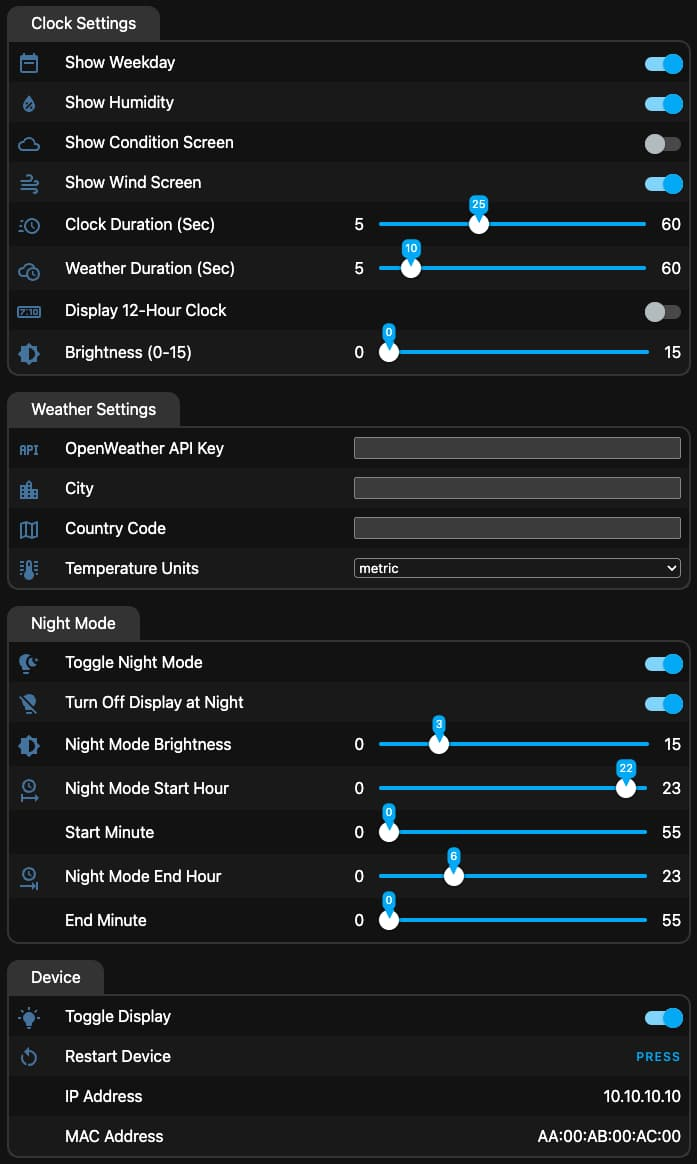
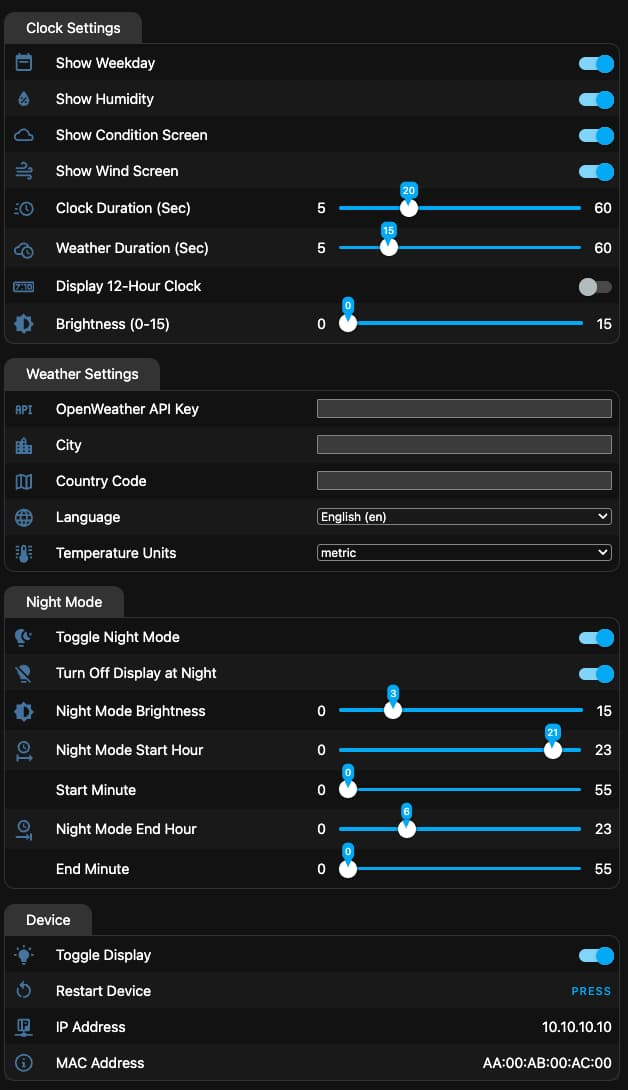
Adjusted scroll speed and updated docs

diff --git a/ESPHome/README.md b/ESPHome/README.md
@@ -31,6 +31,9 @@ You must have [ESPHome](https://esphome.io/) installed already and I will not he
   PIN_CS: "5"                             # Enter GPIO Pin for CS (DATA)
   PIN_MOSI: "23"                          # Enter GPIO Pin for MOSI
 
+  flip_display: "false"                   # Set to true to flip the display 180°
+  default_brightness: "7"                 # Enter the default brightness level of the display 0 -15
+
   ssid: !secret wifi_ssid                 # The name of the WiFi network. When using !secret that means that wifi_ssid needs to be defined in secrets.yaml
   password: !secret wifi_password         # The password for the WiFi Network
 
@@ -39,20 +42,19 @@ You must have [ESPHome](https://esphome.io/) installed already and I will not he
                                           # Find the font here: https://github.com/trip5/Matrix-Fonts/tree/main/8-series
                                           # The default font can be found in the Github Repository for this project.
 
-  default_brightness: "7"                 # Enter the default brightness level of the display 0 -15
   timezone: "Europe/Copenhagen"           # Enter your Timezone
 
   compass_N: "N"                          # Compass Direction North
-  compass_NE: "NE"                        # Compass Direction North East
-  compass_E: "E"                          # Compass Direction East
-  compass_SE: "SE"                        # Compass Direction South East
+  compass_NE: "NØ"                        # Compass Direction North East
+  compass_E: "Ø"                          # Compass Direction East
+  compass_SE: "SØ"                        # Compass Direction South East
   compass_S: "S"                          # Compass Direction South
-  compass_SW: "SW"                        # Compass Direction South West
-  compass_W: "W"                          # Compass Direction West
-  compass_NW: "NW"                        # Compass Direction North West
+  compass_SW: "SV"                        # Compass Direction South West
+  compass_W: "V"                          # Compass Direction West
+  compass_NW: "NV"                        # Compass Direction North West
 
-  # weekDaysShort: "Søn,Man,Tir,Ons,Tor,Fre,Lør"    # Danish
-  weekDaysShort: "Sun,Mon,Tue,Wed,Thu,Fri,Sat"  # English
+  # weekDaysShort: "Søn,Man,Tir,Ons,Tor,Fre,Lør"  # Danish
+  weekDaysShort: "Sun,Mon,Tue,Wed,Thu,Fri,Sat"    # English
   # weekDaysShort: "Son,Mon,Din,Mid,Don,Fre,Sam"  # German
   # weekDaysShort: "Dim,Lun,Mar,Mer,Jeu,Ven,Sam"  # French
   # weekDaysShort: "Dom,Lun,Mar,Mer,Gio,Ven,Sab"  # Italien
@@ -61,9 +63,10 @@ You must have [ESPHome](https://esphome.io/) installed already and I will not he
 
   The settings here need to be configured before compiling and uploading to the ESP32 as they cannot be set while running.
   * The top 3 are the PIN's used to communicate with the Display. These must reflect how you connected the cables between the display and the ESP32. The default PIN's work well with a Wemos ESP32 D1 Mini.
+  * `flip_display` Set this to true if you need to rotate the screen 180 degree's
+  * `default_brightness` is a number between 0 and 15. The higher the number, the brighter the display. This can be adjusted dynamically. See below.
   * `ssid` and `password` are the WiFi Network and passord for that network. You can either type it directly here or you can enter it in to the `secrets.yaml` file, so that it is not visible directly in the code.
   * The `font_path` variable is where ESPHome should look for the font file. (See above)
-  * `default_brightness` is a number between 0 and 15. The higher the number, the brighter the display. This can be adjusted dynamically. See below.
   * The `timezone` explains itself.
   * The `compass_X` string are used for displaying the Wind Cardinal on the Wind Screen. Localize the text here to your own language.
   * `weekDaysShort` Is used for displaying the weekday on the screen. You can localize the day names, and I added a few examples for other languages. Pick the one you want by uncommenting it, and remember to outcomment the ones not used. Or create your own language string.
@@ -77,7 +80,7 @@ The Web Interface can be reached on http://esp32-time-cast.local or the IP Addre
 
 The interface in ESPHome cannot be made as nice as the one @mfactory-osaka made for the Arduino version, but it will do the trick of settings the parameters.
 
-<img src="esp32_timecast_web.jpg" alt="Web Interface" width="480">
+<img src="esp32_timecast_web.jpg?v2" alt="Web Interface" width="480">
 
 | Setting | Required | Comment |
 |:-------------:|:-------:|:-------|
@@ -94,6 +97,7 @@ The interface in ESPHome cannot be made as nice as the one @mfactory-osaka made 
 | *OpenWeather API Key* | Yes | Type your personal [OpenWeather API Key](https://openweathermap.org/api). |
 | *City* | Yes | The city to retrieve weather data for  |
 | *Country Code* | Yes | The 2-letter country code where the city is located |
+| *Language* | Yes | Select a language from the list and the Condition screen will be in that language. Default is english |
 | *Weather Units* | Yes | Weather Units to display data for. Metric, Imperial or Standard (Kelvin Temperature)   |
 | **Night Mode** |  |  |
 | *Toggle Night Mode* | No | If switched on the Clock will go in to Night Mode. If off, the rest of this section will be ignored |
